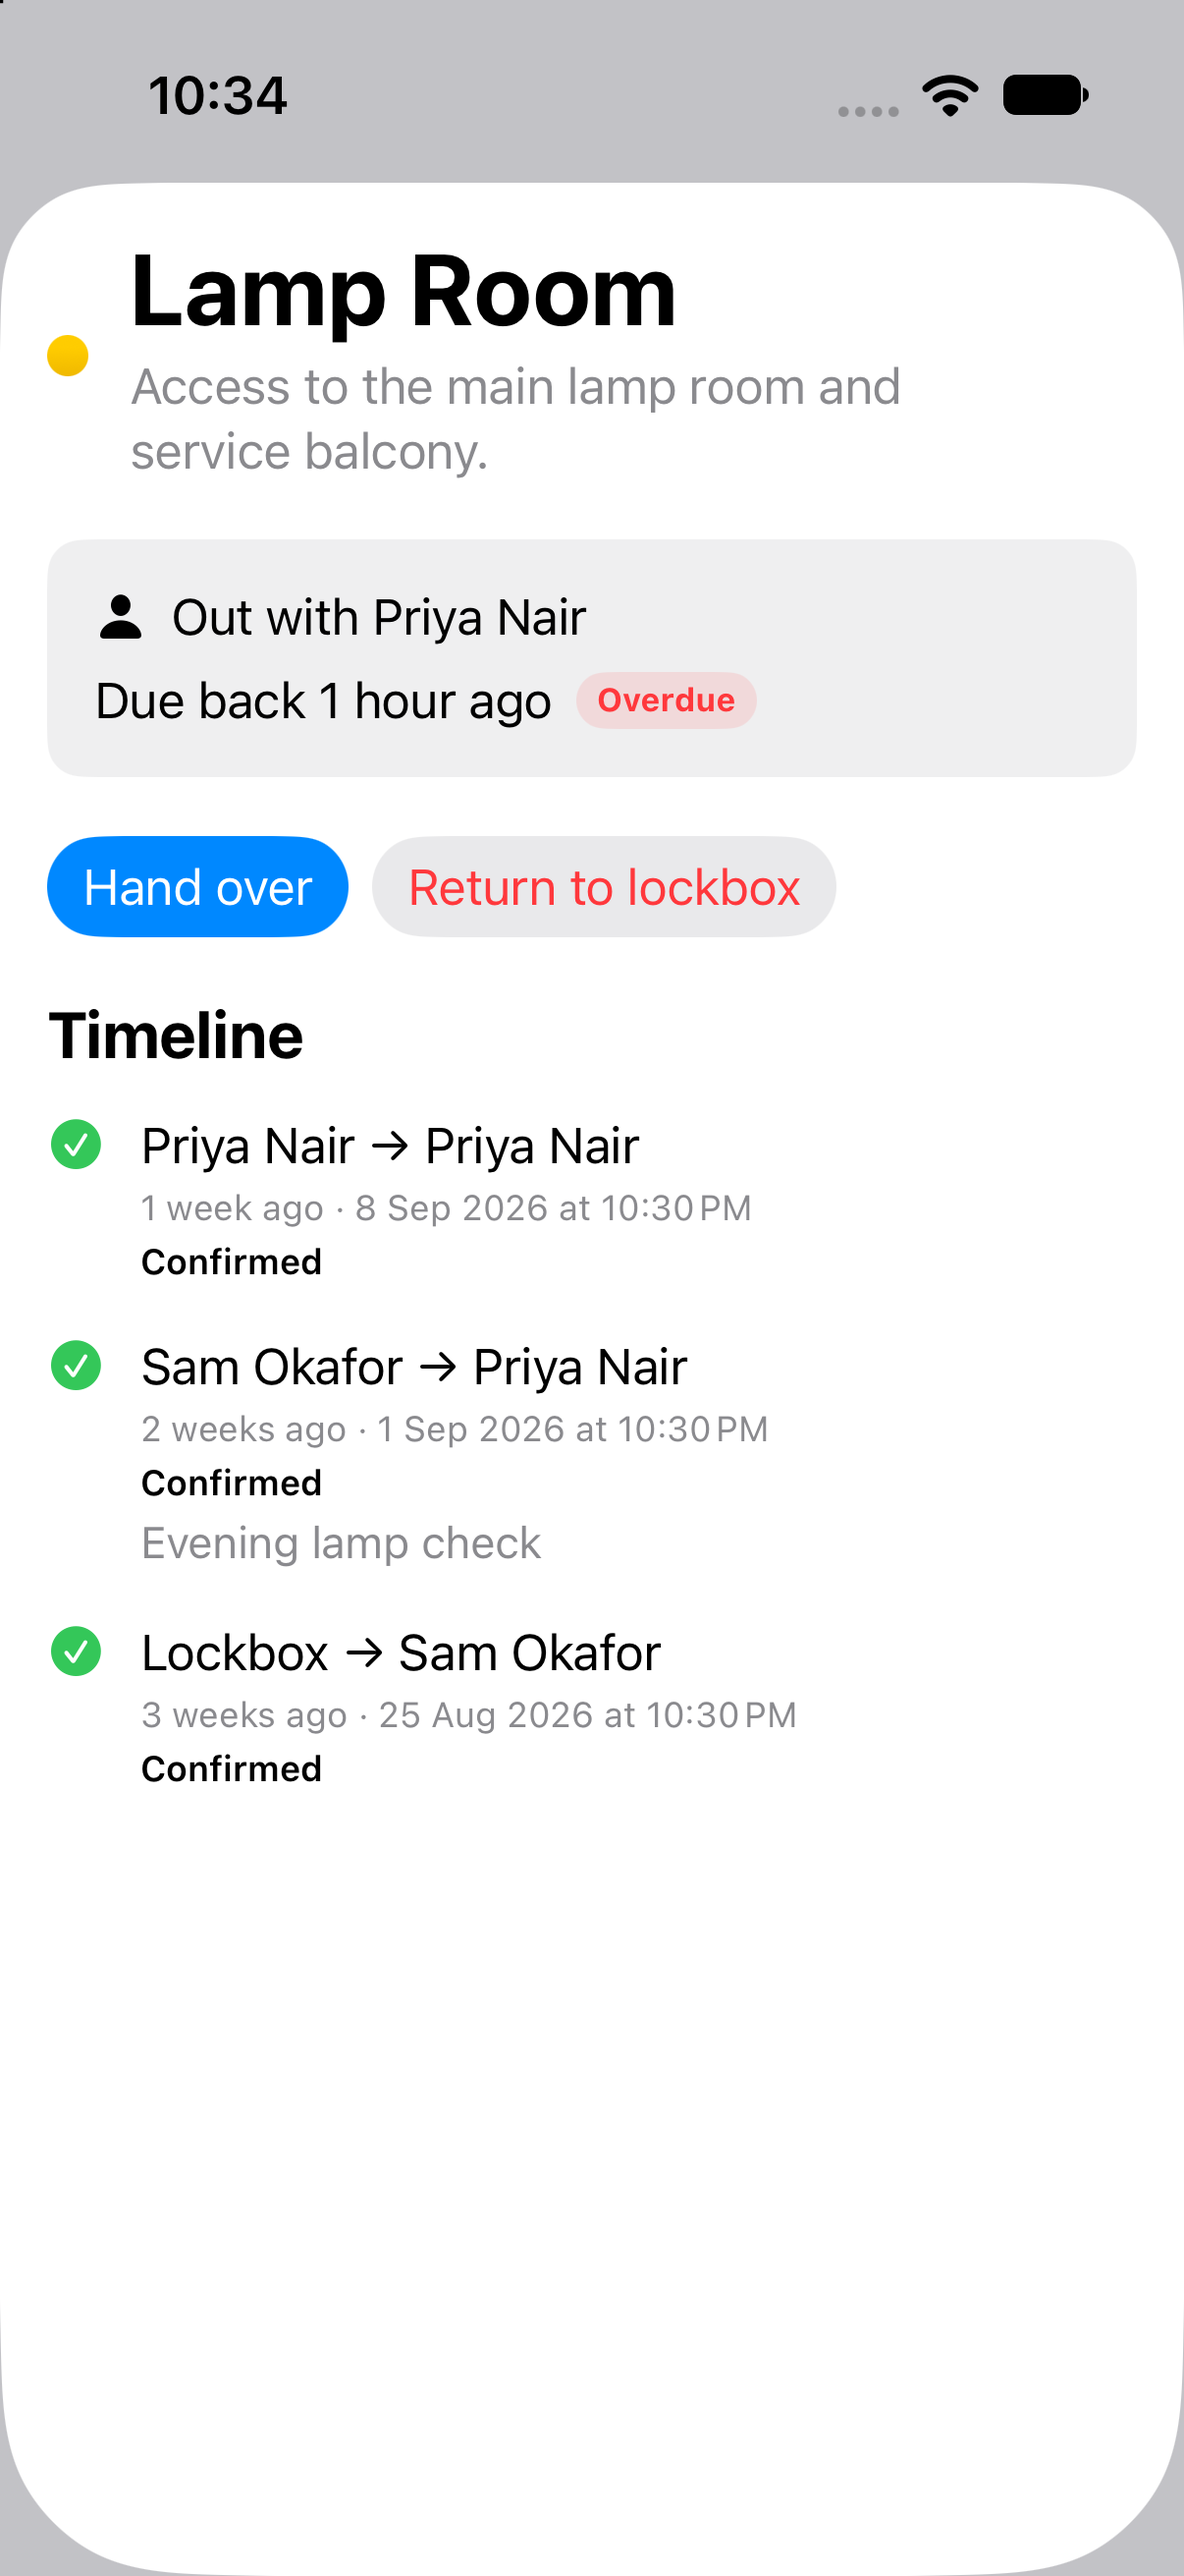
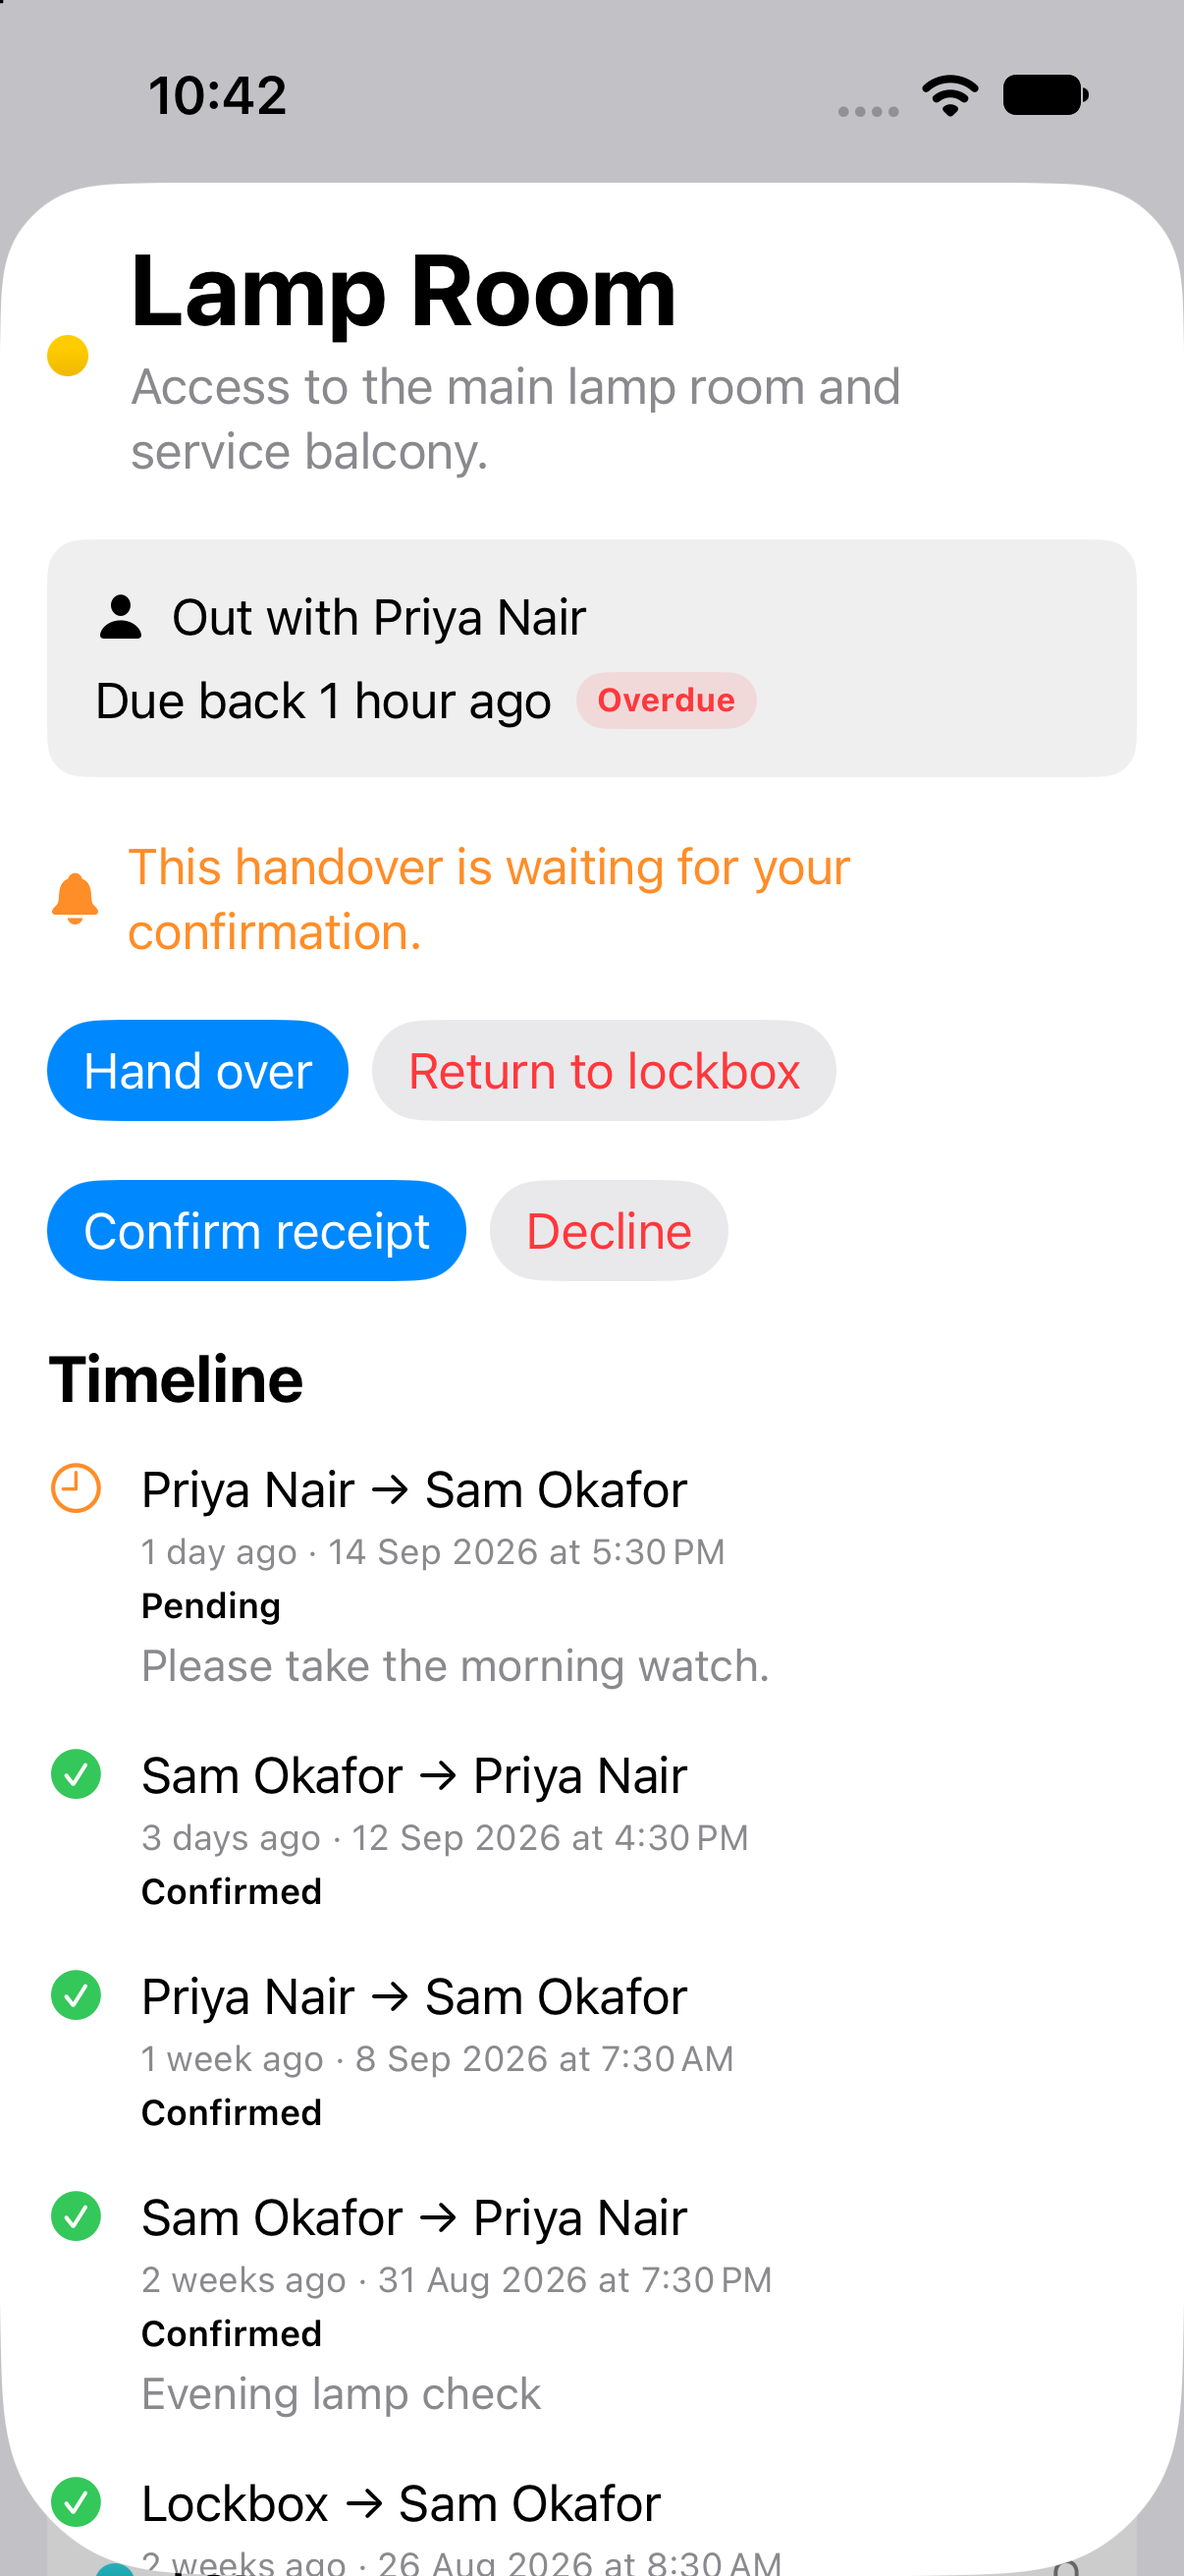
Realistic sample history, error surfacing, copy fixes

diff --git a/KeyHandoverLog/Services/SampleData.swift b/KeyHandoverLog/Services/SampleData.swift
@@ -1,6 +1,20 @@
 import Foundation
 
 enum SampleData {
+    private struct Context {
+        let lamp: LighthouseKey
+        let gate: LighthouseKey
+        let oil: LighthouseKey
+        let visitor: LighthouseKey
+        let master: LighthouseKey
+        let fog: LighthouseKey
+        let sam: Volunteer
+        let priya: Volunteer
+        let tom: Volunteer
+        let ailsa: Volunteer
+        let dev: Volunteer
+    }
+
     static func snapshot(now: Date = .now) -> KeyLogSnapshot {
         let sam = Volunteer(id: UUID(), name: "Sam Okafor", initials: "SO", role: "Coordinator", phone: "07123 456 789")
         let priya = Volunteer(id: UUID(), name: "Priya Nair", initials: "PN", role: "Keeper", phone: "07123 555 102")
@@ -15,22 +29,78 @@ enum SampleData {
         let master = LighthouseKey(id: UUID(), name: "Lockbox Master", colorName: "purple", description: "Master key for the secure key cabinet.", holderId: nil, dueBackAt: nil)
         let fog = LighthouseKey(id: UUID(), name: "Fog Signal House", colorName: "teal", description: "Fog signal house and generator room.", holderId: nil, dueBackAt: nil)
         let keys = [lamp, gate, oil, visitor, master, fog]
-        func handover(_ key: LighthouseKey, _ from: UUID?, _ to: UUID?, _ days: Double, _ status: HandoverStatus = .confirmed, _ due: Date? = nil, _ note: String? = nil) -> Handover {
-            Handover(id: UUID(), keyId: key.id, fromVolunteerId: from, toVolunteerId: to, createdAt: now.addingTimeInterval(days * 86400),
-                     dueBackAt: due, status: status, confirmedAt: status == .pending ? nil : now.addingTimeInterval(days * 86400 + 300), note: note)
-        }
-        var handovers: [Handover] = []
-        for (index, key) in keys.enumerated() {
-            handovers.append(handover(key, nil, sam.id, -21, .confirmed, now.addingTimeInterval(-18 * 86400)))
-            handovers.append(handover(key, sam.id, [priya.id, tom.id, ailsa.id, sam.id, nil, nil][index], -14, .confirmed, key.dueBackAt))
-            handovers.append(handover(key, key.holderId, key.holderId, -7, .confirmed, key.dueBackAt))
-        }
-        if let index = handovers.firstIndex(where: { $0.keyId == lamp.id && $0.toVolunteerId == priya.id }) {
-            handovers[index].note = "Evening lamp check"
-        }
-        handovers.append(Handover(id: UUID(), keyId: lamp.id, fromVolunteerId: priya.id, toVolunteerId: sam.id,
-                                  createdAt: now.addingTimeInterval(-1800), dueBackAt: now.addingTimeInterval(4 * 3600),
-                                  status: .pending, confirmedAt: nil, note: "Please take the morning watch."))
+        let context = Context(
+            lamp: lamp,
+            gate: gate,
+            oil: oil,
+            visitor: visitor,
+            master: master,
+            fog: fog,
+            sam: sam,
+            priya: priya,
+            tom: tom,
+            ailsa: ailsa,
+            dev: dev
+        )
+        let handovers = Self.handovers(now: now, context: context)
         return KeyLogSnapshot(volunteers: volunteers, keys: keys, handovers: handovers, currentUserId: sam.id)
+    }
+
+    private static func handovers(now: Date, context: Context) -> [Handover] {
+        func days(_ d: Double, hour: Int) -> Date {
+            Calendar.current.date(
+                bySettingHour: hour,
+                minute: 30,
+                second: 0,
+                of: now.addingTimeInterval(d * 86400)
+            ) ?? now.addingTimeInterval(d * 86400)
+        }
+
+        func makeHandover(
+            _ key: LighthouseKey,
+            from: UUID?,
+            to: UUID?,
+            createdAt: Date,
+            dueBackAt: Date?,
+            status: HandoverStatus = .confirmed,
+            note: String? = nil
+        ) -> Handover {
+            Handover(
+                id: UUID(),
+                keyId: key.id,
+                fromVolunteerId: from,
+                toVolunteerId: to,
+                createdAt: createdAt,
+                dueBackAt: dueBackAt,
+                status: status,
+                confirmedAt: status == .pending ? nil : createdAt.addingTimeInterval(15 * 60),
+                note: note
+            )
+        }
+
+        return [
+            makeHandover(context.lamp, from: nil, to: context.sam.id, createdAt: days(-20, hour: 8), dueBackAt: days(-18, hour: 18)),
+            makeHandover(context.lamp, from: context.sam.id, to: context.priya.id, createdAt: days(-15, hour: 19), dueBackAt: days(-14, hour: 23), note: "Evening lamp check"),
+            makeHandover(context.lamp, from: context.priya.id, to: context.sam.id, createdAt: days(-7, hour: 7), dueBackAt: days(-6, hour: 18)),
+            makeHandover(context.lamp, from: context.sam.id, to: context.priya.id, createdAt: days(-3, hour: 16), dueBackAt: context.lamp.dueBackAt),
+            makeHandover(context.lamp, from: context.priya.id, to: context.sam.id, createdAt: days(-1, hour: 17), dueBackAt: now.addingTimeInterval(4 * 3600), status: .pending, note: "Please take the morning watch."),
+
+            makeHandover(context.gate, from: nil, to: context.tom.id, createdAt: days(-19, hour: 9), dueBackAt: days(-16, hour: 17)),
+            makeHandover(context.gate, from: context.tom.id, to: context.ailsa.id, createdAt: days(-12, hour: 13), dueBackAt: days(-9, hour: 18), note: "Gate chain replaced"),
+            makeHandover(context.gate, from: context.ailsa.id, to: context.tom.id, createdAt: days(-6, hour: 11), dueBackAt: context.gate.dueBackAt),
+
+            makeHandover(context.oil, from: nil, to: context.dev.id, createdAt: days(-17, hour: 10), dueBackAt: days(-14, hour: 16)),
+            makeHandover(context.oil, from: context.dev.id, to: context.ailsa.id, createdAt: days(-10, hour: 15), dueBackAt: context.oil.dueBackAt, note: "Spare lantern collected"),
+
+            makeHandover(context.visitor, from: nil, to: context.sam.id, createdAt: days(-20, hour: 8), dueBackAt: days(-17, hour: 17)),
+            makeHandover(context.visitor, from: context.sam.id, to: context.tom.id, createdAt: days(-9, hour: 12), dueBackAt: days(-6, hour: 18)),
+            makeHandover(context.visitor, from: context.tom.id, to: context.sam.id, createdAt: days(-4, hour: 14), dueBackAt: context.visitor.dueBackAt, note: "Tour group Saturday"),
+
+            makeHandover(context.master, from: nil, to: context.sam.id, createdAt: days(-18, hour: 9), dueBackAt: days(-15, hour: 17)),
+            makeHandover(context.master, from: context.sam.id, to: nil, createdAt: days(-6, hour: 18), dueBackAt: nil, note: "Key cabinet audit"),
+
+            makeHandover(context.fog, from: nil, to: context.priya.id, createdAt: days(-15, hour: 7), dueBackAt: days(-12, hour: 16)),
+            makeHandover(context.fog, from: context.priya.id, to: nil, createdAt: days(-2, hour: 20), dueBackAt: nil, note: "Fog signal test complete")
+        ]
     }
 }

diff --git a/KeyHandoverLog/Views/KeyDetail/KeyDetailView.swift b/KeyHandoverLog/Views/KeyDetail/KeyDetailView.swift
@@ -37,8 +37,8 @@ struct KeyDetailView: View {
                         }
                         if let pending, pending.toVolunteerId == store.currentUserId {
                             HStack {
-                                Button("Confirm receipt") { try? store.confirmReceipt(handoverId: pending.id) }.buttonStyle(.borderedProminent)
-                                Button("Decline", role: .destructive) { try? store.declineHandover(handoverId: pending.id) }.buttonStyle(.bordered)
+                                Button("Confirm receipt") { store.perform { try store.confirmReceipt(handoverId: pending.id) } }.buttonStyle(.borderedProminent)
+                                Button("Decline", role: .destructive) { store.perform { try store.declineHandover(handoverId: pending.id) } }.buttonStyle(.bordered)
                             }
                         }
                         VStack(alignment: .leading, spacing: 10) {
@@ -57,7 +57,9 @@ struct KeyDetailView: View {
                 .navigationBarTitleDisplayMode(.inline)
                 .sheet(isPresented: $showingHandover) { HandoverSheet(key: key) }
                 .confirmationDialog("Return this key to the lockbox?", isPresented: $showingReturnConfirmation) {
-                    Button("Return to lockbox", role: .destructive) { try? store.returnToLockbox(keyId: key.id, note: nil) }
+                    Button("Return to lockbox", role: .destructive) {
+                        store.perform { try store.returnToLockbox(keyId: key.id, note: nil) }
+                    }
                     Button("Cancel", role: .cancel) {}
                 }
             } else {

diff --git a/KeyHandoverLog/Views/Volunteers/VolunteersView.swift b/KeyHandoverLog/Views/Volunteers/VolunteersView.swift
@@ -31,7 +31,7 @@ struct VolunteersView: View {
             .navigationTitle("Volunteers")
             .sheet(item: $selectedVolunteer) { VolunteerDetailView(volunteerId: $0.id) }
             .confirmationDialog("Reset all demo data?", isPresented: $showingResetConfirmation) {
-                Button("Reset demo data", role: .destructive) { try? store.resetDemoData() }
+                Button("Reset demo data", role: .destructive) { store.perform { try store.resetDemoData() } }
                 Button("Cancel", role: .cancel) {}
             }
         }
@@ -50,7 +50,12 @@ struct VolunteerRow: View {
                 Text(volunteer.role).font(.subheadline).foregroundStyle(.secondary)
                 if let phone = volunteer.phone { Text(phone).font(.caption).foregroundStyle(.secondary) }
                 let heldKeys = store.keysHeld(by: volunteer.id)
-                Text("Holds \(heldKeys.count) keys\(heldKeys.isEmpty ? "" : ": \(heldKeys.map(\.name).joined(separator: ", "))")")
+                let heldLabel: String = switch heldKeys.count {
+                case 0: "Holds no keys"
+                case 1: "Holds 1 key: \(heldKeys[0].name)"
+                default: "Holds \(heldKeys.count) keys: \(heldKeys.map(\.name).joined(separator: ", "))"
+                }
+                Text(heldLabel)
                     .font(.caption).foregroundStyle(.secondary)
             }
         }.padding(.vertical, 4)

diff --git a/KeyHandoverLog/Views/Handover/HandoverSheet.swift b/KeyHandoverLog/Views/Handover/HandoverSheet.swift
@@ -44,11 +44,13 @@ struct HandoverSheet: View {
                             }
                         }
                     }
-                    Button {
-                        recipientId = nil
-                        returningToLockbox = true
-                    } label: {
-                        Label("Return to lockbox", systemImage: "lock.fill")
+                    if !key.isInLockbox {
+                        Button {
+                            recipientId = nil
+                            returningToLockbox = true
+                        } label: {
+                            Label("Return to lockbox", systemImage: "lock.fill")
+                        }
                     }
                 }
                 if recipientId != nil {
@@ -75,7 +77,7 @@ struct HandoverSheet: View {
 
     private func confirm() {
         if returningToLockbox {
-            try? store.returnToLockbox(keyId: key.id, note: note.isEmpty ? nil : note)
+            store.perform { try store.returnToLockbox(keyId: key.id, note: note.isEmpty ? nil : note) }
             dismiss()
             return
         }

diff --git a/KeyHandoverLog/Views/Keys/KeysListView.swift b/KeyHandoverLog/Views/Keys/KeysListView.swift
@@ -88,9 +88,9 @@ struct PendingHandoverBanner: View {
                 Text("\(store.volunteer(id: handover.fromVolunteerId)?.name ?? "Someone") is handing you the \(store.key(id: handover.keyId)?.name ?? "key")")
             } icon: { Image(systemName: "hand.point.right.fill") }
             HStack {
-                Button("Confirm") { try? store.confirmReceipt(handoverId: handover.id) }
+                Button("Confirm") { store.perform { try store.confirmReceipt(handoverId: handover.id) } }
                     .buttonStyle(.borderedProminent)
-                Button("Decline", role: .destructive) { try? store.declineHandover(handoverId: handover.id) }
+                Button("Decline", role: .destructive) { store.perform { try store.declineHandover(handoverId: handover.id) } }
                     .buttonStyle(.bordered)
             }
         }

diff --git a/KeyHandoverLog/Services/KeyLogStore.swift b/KeyHandoverLog/Services/KeyLogStore.swift
@@ -33,6 +33,14 @@ protocol KeyLogStore: AnyObject, Observable {
 }
 
 extension KeyLogStore {
+    func perform(_ action: () throws -> Void) {
+        do {
+            try action()
+        } catch {
+            lastError = error as? KeyLogStoreError
+        }
+    }
+
     func handOver(keyId: UUID, to volunteerId: UUID, dueBackAt: Date?, note: String?) throws -> Handover {
         try handOver(keyId: keyId, to: volunteerId, dueBackAt: dueBackAt, note: note, now: .now)
     }
